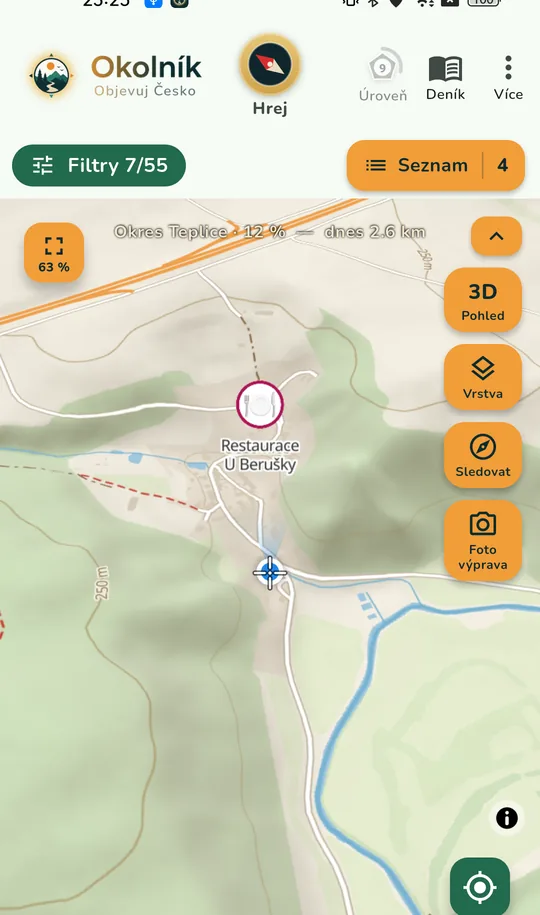
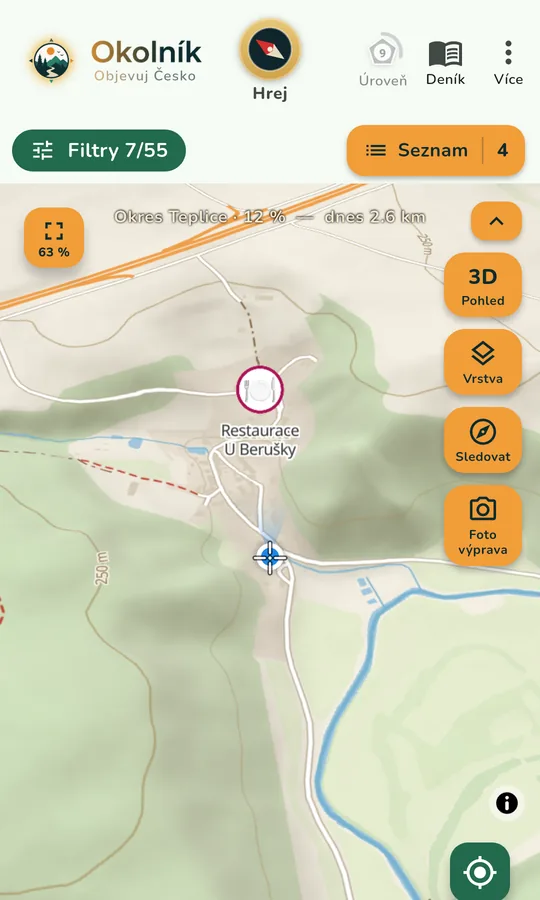
Kontakt v menu, snimky bez stavoveho radku, vyzva k hlaseni chyb
- nova stranka /kontakt/ (jmeno, e-mail jako TEXT + tlacitko zkopirovat,
  co pripsat k hlaseni chyby); e-mail zamerne neni mailto: odkaz, na
  pocitaci malokdo pouziva postovniho klienta
- "Kontakt" pribyl do menu i paticky na vsech strankach vcetne
  generatoru zasad soukromi
- snimky aplikace prerezany bez horni stavove listy (cas, baterie)
- na uvodu misto "Aplikace se doladuje" vyzva k hlaseni chyb a namet

diff --git a/kontakt/index.html b/kontakt/index.html
@@ -1,0 +1,100 @@
+<!doctype html>
+<html lang="cs">
+<head>
+<meta charset="utf-8">
+<meta name="viewport" content="width=device-width, initial-scale=1">
+<title>Kontakt – Okolník</title>
+<meta name="description" content="Kontakt na autora aplikace Okolník: hlášení chyb, náměty a dotazy.">
+<meta name="color-scheme" content="light">
+<link rel="icon" href="/img/favicon.ico" sizes="32x32">
+<link rel="apple-touch-icon" href="/img/favicon.png">
+<link rel="stylesheet" href="/styl.css">
+</head>
+<body>
+
+<header class="hlava">
+  <div class="obal">
+    <a class="znacka" href="/">
+      <img class="emblem" src="/img/emblem-96.webp" alt="" width="38" height="38">
+      <img class="napis" src="/img/wordmark.webp" alt="Okolník" width="120" height="30">
+    </a>
+    <nav class="menu" aria-label="Hlavní nabídka">
+      <a href="/">Domů</a>
+      <a href="/zebricek/">Žebříček</a>
+      <a href="/ucet/">Můj Okolník</a>
+      <a href="/soukromi/">Soukromí</a>
+      <a href="/kontakt/" aria-current="page">Kontakt</a>
+    </nav>
+  </div>
+</header>
+
+<main class="uzky">
+  <h1>Kontakt</h1>
+  <p class="podtitul">Okolník píše jeden člověk. Každou zprávu si přečtu –
+  a na tu, kde je vidět, co se dělo, dokážu odpovědět nejrychleji.</p>
+
+  <h2>Autor</h2>
+  <p><strong>Stanislav Mudra</strong><br>
+  vývojář aplikace Okolník</p>
+
+  <h2>E-mail</h2>
+  <p class="mail" id="mail">stamu.apps@gmail.com</p>
+  <button class="tlacitko" type="button" id="kopirovat">Zkopírovat adresu</button>
+
+  <h2>Když hlásíte chybu</h2>
+  <p>Pomůže, když k tomu připíšete:</p>
+  <ul>
+    <li><strong>co jste dělali</strong>, než se to stalo (a jestli to jde zopakovat),</li>
+    <li>co se stalo místo toho, co jste čekali,</li>
+    <li>značku a model telefonu,</li>
+    <li>verzi aplikace – najdete ji ve <em>Více → O aplikaci</em>,</li>
+    <li>klidně i snímek obrazovky.</li>
+  </ul>
+
+  <h2>Náměty</h2>
+  <p>Chybí vám nějaká kategorie míst, máte nápad na výzvu nebo víte
+  o zajímavém místě, které v aplikaci není? Napište – většina toho, co
+  Okolník dnes umí, vznikla přesně takhle.</p>
+
+  <section class="vysvetlivka">
+    <p>Okolník je zatím <strong>zájmový projekt</strong>, ne firma – proto tu
+    nenajdete sídlo ani telefon. Adresa výš je jediná oficiální cesta,
+    jak se ozvat. Jak nakládám s údaji, popisují
+    <a href="/soukromi/">zásady ochrany soukromí</a>.</p>
+  </section>
+</main>
+
+<footer class="pata">
+  <div class="obal">
+    <div>
+      <strong style="color:#f2ede0">Okolník</strong>
+      <p class="drobne">© 2026 Stanislav Mudra</p>
+    </div>
+    <nav class="odkazy" aria-label="Odkazy v patičce">
+      <a href="/">Domů</a>
+      <a href="/zebricek/">Žebříček</a>
+      <a href="/ucet/">Můj Okolník</a>
+      <a href="/soukromi/">Zásady soukromí</a>
+      <a href="/kontakt/">Kontakt</a>
+    </nav>
+  </div>
+</footer>
+
+<script>
+  // Adresa se hlavně UKAZUJE (na počítači málokdo používá poštovního
+  // klienta, takže `mailto:` často jen otevře nastavení Outlooku).
+  (function () {
+    var t = document.getElementById('kopirovat');
+    var m = document.getElementById('mail');
+    if (!t || !m || !navigator.clipboard) { if (t) t.hidden = true; return; }
+    t.addEventListener('click', function () {
+      navigator.clipboard.writeText(m.textContent.trim()).then(function () {
+        t.textContent = 'Zkopírováno ✓';
+        setTimeout(function () { t.textContent = 'Zkopírovat adresu'; }, 2500);
+      }, function () { t.hidden = true; });
+    });
+  })();
+</script>
+
+</body>
+</html>

diff --git a/index.html b/index.html
@@ -29,6 +29,7 @@
       <a href="/zebricek/">Žebříček</a>
       <a href="/ucet/">Můj Okolník</a>
       <a href="/soukromi/">Soukromí</a>
+      <a href="/kontakt/">Kontakt</a>
     </nav>
   </div>
 </header>
@@ -96,15 +97,15 @@
     <h2>Jak to vypadá</h2>
     <div class="snimky">
       <figure class="snimek">
-        <img src="/img/app-turisticka.webp" alt="Turistická mapa s vrstevnicemi a značenými trasami" width="540" height="915" loading="lazy">
+        <img src="/img/app-turisticka.webp" alt="Turistická mapa s vrstevnicemi a značenými trasami" width="540" height="900" loading="lazy">
         <figcaption>Turistická mapa se značkami KČT</figcaption>
       </figure>
       <figure class="snimek">
-        <img src="/img/app-herni.webp" alt="Herní mapa v noci: kreslená krajina, světla vesnic a postavička hráče" width="540" height="915" loading="lazy">
+        <img src="/img/app-herni.webp" alt="Herní mapa v noci: kreslená krajina, světla vesnic a postavička hráče" width="540" height="900" loading="lazy">
         <figcaption>Herní mapa – tady v noci</figcaption>
       </figure>
       <figure class="snimek">
-        <img src="/img/app-uspechy.webp" alt="Obrazovka Úspěchy a výzvy s úrovní, rekordy a postupem" width="540" height="915" loading="lazy">
+        <img src="/img/app-uspechy.webp" alt="Obrazovka Úspěchy a výzvy s úrovní, rekordy a postupem" width="540" height="900" loading="lazy">
         <figcaption>Úspěchy, výzvy a rekordy</figcaption>
       </figure>
     </div>
@@ -112,15 +113,34 @@
 
   <section class="pruh">
     <div class="sekce">
-      <h2>Aplikace se dolaďuje</h2>
-      <p>Okolník je teď v uzavřeném testování a chystá se do Google Play.
-      Chcete být u toho, nebo máte nápad, co by měl umět? Napište mi –
-      každý e-mail si čtu.</p>
-      <a class="tlacitko" href="mailto:stamu.apps@gmail.com">Napsat autorovi</a>
+      <h2>Našli jste chybu? Napadá vás vylepšení?</h2>
+      <p>Okolník píše jeden člověk a každou zprávu si přečte. Nejvíc
+      pomůže, když napíšete, <strong>co jste dělali</strong>, co se stalo
+      a jaký máte telefon.</p>
+      <p class="mail" id="mail">stamu.apps@gmail.com</p>
+      <button class="tlacitko" type="button" id="kopirovat">Zkopírovat adresu</button>
     </div>
   </section>
 
 </main>
+
+<script>
+  // Adresa se hlavně UKAZUJE (na počítači málokdo používá poštovního
+  // klienta, takže `mailto:` často jen otevře nastavení Outlooku).
+  // Tlačítko ji jen zkopíruje do schránky; když to prohlížeč nedovolí,
+  // adresa je i tak čitelná a dá se označit myší.
+  (function () {
+    var t = document.getElementById('kopirovat');
+    var m = document.getElementById('mail');
+    if (!t || !m || !navigator.clipboard) { if (t) t.hidden = true; return; }
+    t.addEventListener('click', function () {
+      navigator.clipboard.writeText(m.textContent.trim()).then(function () {
+        t.textContent = 'Zkopírováno ✓';
+        setTimeout(function () { t.textContent = 'Zkopírovat adresu'; }, 2500);
+      }, function () { t.hidden = true; });
+    });
+  })();
+</script>
 
 <footer class="pata">
   <div class="obal">
@@ -133,7 +153,7 @@
       <a href="/zebricek/">Žebříček</a>
       <a href="/ucet/">Můj Okolník</a>
       <a href="/soukromi/">Zásady soukromí</a>
-      <a href="mailto:stamu.apps@gmail.com">Kontakt</a>
+      <a href="/kontakt/">Kontakt</a>
     </nav>
   </div>
   <div class="obal" style="padding-top:0">

diff --git a/styl.css b/styl.css
@@ -316,7 +316,12 @@ p, li { margin: 0 0 12px; }
   .hero { padding: 42px 18px 48px; }
   .hero img.emblem { width: 92px; height: 92px; }
   .hero p.lead { font-size: 1.02rem; }
-  .hlava .obal { padding: 8px 14px; gap: 8px; }
+  /* ⚠ Lišta je lepivá, takže každý pixel navíc ubírá z obsahu.
+     S pěti položkami se menu na mobilu zalomí do dvou řádků — proto
+     je tu všechno o kus menší (změřeno: 141 → ~118 px). */
+  .hlava .obal { padding: 6px 12px; gap: 6px; }
+  .znacka img.emblem { width: 32px; height: 32px; }
+  .znacka img.napis { height: 18px; }
   /* ⭐ Na mobilu se menu ZALAMUJE, ne posouvá do strany. Zkoušeno
      s vodorovným posuvem a rozostřeným okrajem (20. 8.): na 359 px se
      čtyři položky vejdou těsně, na užším displeji už ne — a položka
@@ -329,7 +334,8 @@ p, li { margin: 0 0 12px; }
     flex-wrap: wrap;
     justify-content: center;
   }
-  .menu a { padding: 7px 10px; font-size: .86rem; }
+  .menu a { padding: 6px 9px; font-size: .82rem; }
+  .menu { gap: 4px; row-gap: 4px; }
   .pata .obal { padding: 24px 16px 30px; }
 }
 
@@ -343,3 +349,16 @@ p, li { margin: 0 0 12px; }
 }
 .vysvetlivka h2 { font-size: 1rem; color: var(--tmava); margin-bottom: 8px; }
 .vysvetlivka p:last-child { margin-bottom: 0; }
+
+/* E-mailová adresa jako text, ne odkaz — na počítači málokdo používá
+   poštovního klienta a `mailto:` mu jen otevře nastavení Outlooku. */
+.mail {
+  font-size: 1.22rem;
+  font-weight: 700;
+  color: var(--oranzova);
+  letter-spacing: .01em;
+  user-select: all;
+  margin: 6px 0 18px;
+  word-break: break-word;
+}
+.uzky .mail { color: var(--zelena); }

diff --git a/soukromi/index.html b/soukromi/index.html
@@ -37,6 +37,7 @@
       <a href="/zebricek/">Žebříček</a>
       <a href="/ucet/">Můj Okolník</a>
       <a href="/soukromi/" aria-current="page">Soukromí</a>
+      <a href="/kontakt/">Kontakt</a>
     </nav>
   </div>
 </header>
@@ -222,7 +223,7 @@ a my je smažeme.</p>
 <p>Aktuální verze těchto zásad je vždy dostupná na této adrese. O podstatných
 změnách budeme informovat v popisu aktualizace aplikace.</p>
   <section class="vysvetlivka">
-    <p>Dotaz k&nbsp;soukromí: <a href="mailto:stamu.apps@gmail.com">stamu.apps@gmail.com</a>
+    <p>Dotaz k&nbsp;soukromí: <a href="/kontakt/">kontakt na autora</a>
     · <a href="https://github.com/stanislavmudra-hue/Sarcher-data/blob/main/PRIVACY.md">zdrojový text</a></p>
   </section>
 </main>
@@ -238,7 +239,7 @@ změnách budeme informovat v popisu aktualizace aplikace.</p>
       <a href="/zebricek/">Žebříček</a>
       <a href="/ucet/">Můj Okolník</a>
       <a href="/soukromi/">Zásady soukromí</a>
-      <a href="mailto:stamu.apps@gmail.com">Kontakt</a>
+      <a href="/kontakt/">Kontakt</a>
     </nav>
   </div>
 </footer>

diff --git a/zebricek/index.html b/zebricek/index.html
@@ -122,6 +122,7 @@ th, td { padding: 8px 6px; }
       <a href="/zebricek/" aria-current="page">Žebříček</a>
       <a href="/ucet/">Můj Okolník</a>
       <a href="/soukromi/">Soukromí</a>
+      <a href="/kontakt/">Kontakt</a>
     </nav>
   </div>
 </header>
@@ -186,7 +187,7 @@ th, td { padding: 8px 6px; }
       <a href="/zebricek/">Žebříček</a>
       <a href="/ucet/">Můj Okolník</a>
       <a href="/soukromi/">Zásady soukromí</a>
-      <a href="mailto:stamu.apps@gmail.com">Kontakt</a>
+      <a href="/kontakt/">Kontakt</a>
     </nav>
   </div>
 </footer>

diff --git a/ucet/index.html b/ucet/index.html
@@ -121,6 +121,7 @@
       <a href="/zebricek/">Žebříček</a>
       <a href="/ucet/" aria-current="page">Můj Okolník</a>
       <a href="/soukromi/">Soukromí</a>
+      <a href="/kontakt/">Kontakt</a>
     </nav>
   </div>
 </header>
@@ -173,7 +174,7 @@
       <a href="/zebricek/">Žebříček</a>
       <a href="/ucet/">Můj Okolník</a>
       <a href="/soukromi/">Zásady soukromí</a>
-      <a href="mailto:stamu.apps@gmail.com">Kontakt</a>
+      <a href="/kontakt/">Kontakt</a>
     </nav>
   </div>
 </footer>
